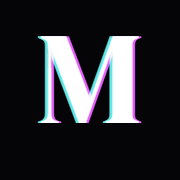
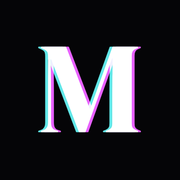
Fix ?

Changed region(s): [[0.1944, 0.1944, 0.8056, 0.75]]

diff --git a/app/components/ProcessSteps.vue b/app/components/ProcessSteps.vue
@@ -30,17 +30,13 @@ const chronoSteps = [
 <template>
   <section id="process-section" class="relative px-5 py-12 md:px-10 md:py-16 lg:px-16">
     <div class="mx-auto max-w-7xl">
-      <!-- Editorial header — title (7) + right text (5), bottoms aligned -->
+      <!-- Editorial header — title (5) + right text (5), bottoms aligned -->
       <div class="mb-14 grid grid-cols-1 gap-8 md:grid-cols-12 md:items-end">
-        <div class="reveal md:col-span-7">
+        <div class="reveal md:col-span-5">
           <span class="eyebrow-cyan">Méthodologie</span>
-          <h2
-            class="mt-5 headline-section text-white md:whitespace-nowrap"
-            data-split
-            style="font-size: clamp(32px, 3.9vw, 52px); padding-right: 0.12em;"
-          >
-            Sur-mesure,
-            <span class="gradient-text italic" style="padding-left: 0.14em; padding-right: 0.22em;">jamais standard.</span>
+          <h2 class="mt-5 headline-section text-white" data-split>
+            Sur-mesure,<br />
+            <span class="gradient-text italic" style="padding-left: 0.12em; padding-right: 0.22em;">jamais standard.</span>
           </h2>
         </div>
         <div class="reveal md:col-span-5 md:col-start-8">

diff --git a/app/components/PricingSection.vue b/app/components/PricingSection.vue
@@ -20,7 +20,7 @@ const sideBadges: SideBadge[] = [
         <span class="eyebrow-cyan">Pricing</span>
         <h2 class="mt-5 headline-section text-white" data-split>
           Simple.<br />
-          <span class="gradient-text italic" style="padding-left: 0.08em; padding-right: 0.12em;">Transparent.</span>
+          <span class="gradient-text italic">Transparent.</span>
         </h2>
       </div>
 